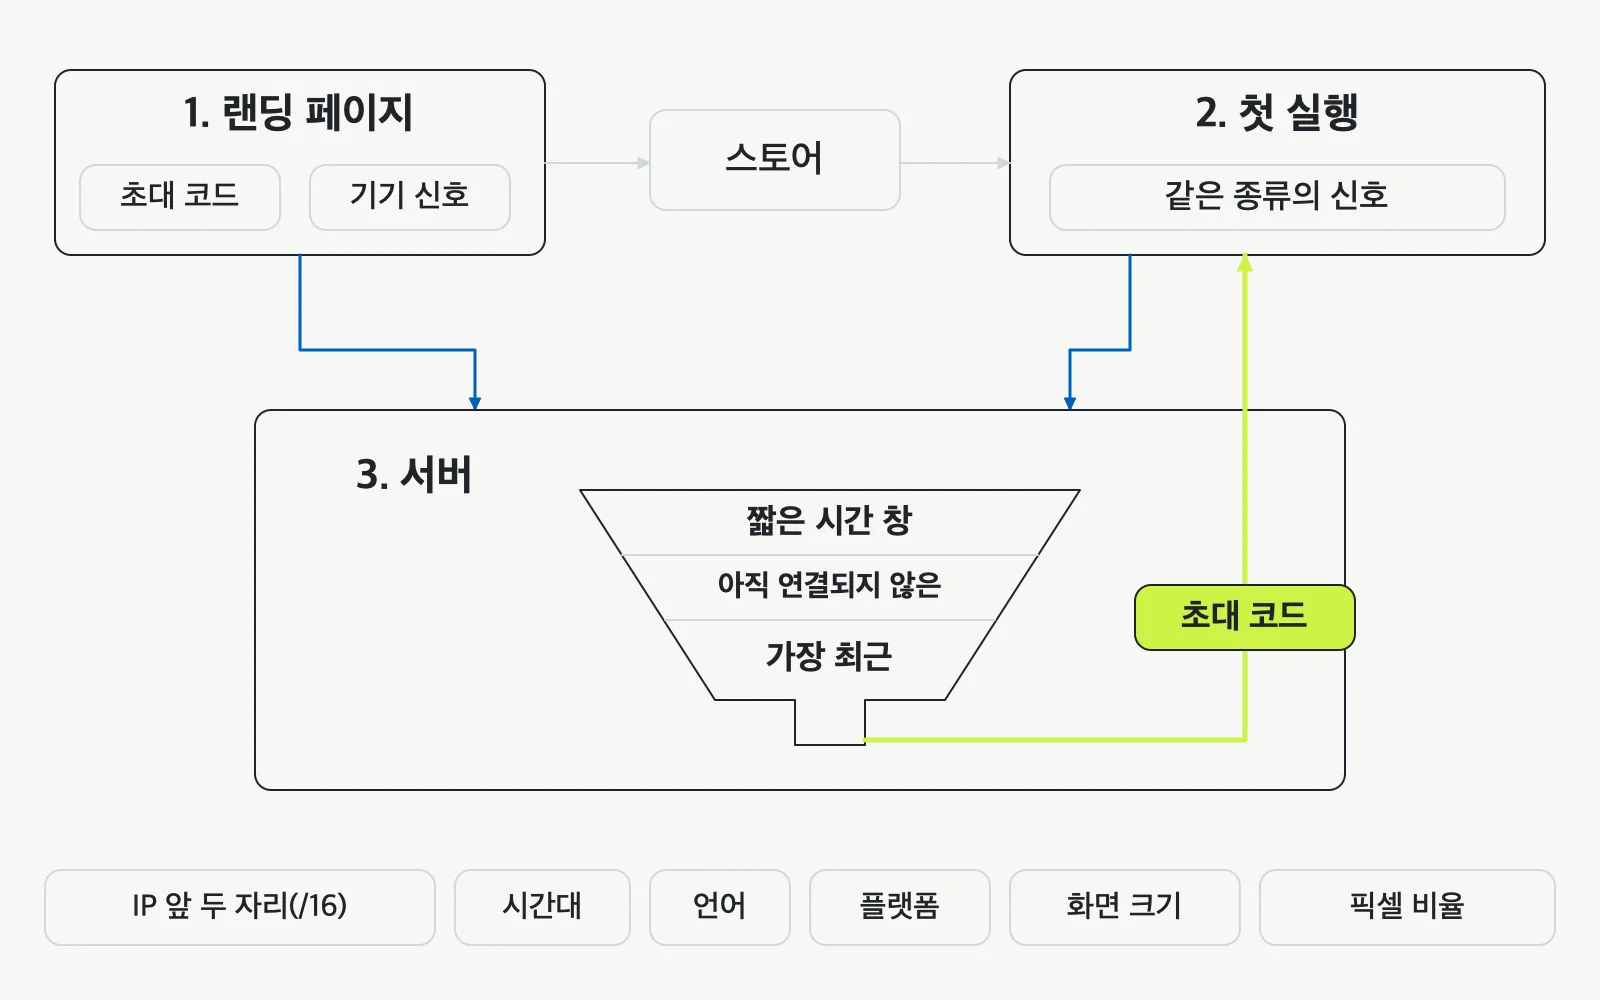
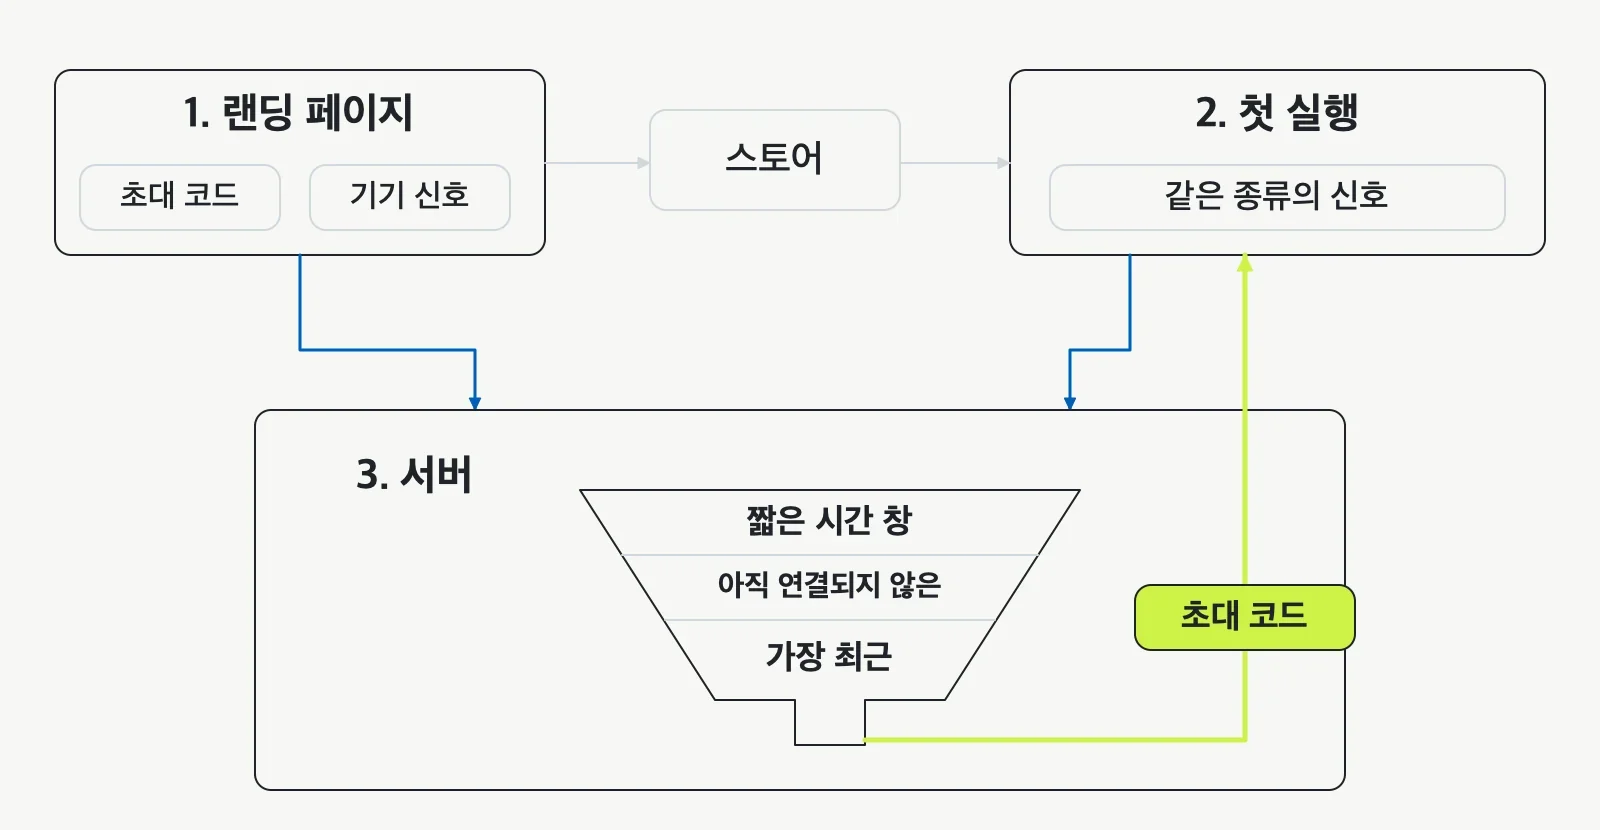
posts: 디퍼드 딥링크 글 — iOS 매칭 상세(신호 목록·코드·조건 그림) 축소, 결정 섹션을 앞으로, 요약 결과 구체화

diff --git a/src/post_items/deferred_deeplink_in_house.md b/src/post_items/deferred_deeplink_in_house.md
@@ -3,14 +3,14 @@ title: 'SDK 비용 대신 1픽셀과 싸웠다 — 초대 코드를 서버에서
 author: jack
 date: 2026. 10. 06.
 published: true
-description: 친구 초대 링크로 앱을 설치한 사람을 첫 실행 때 초대자와 연결하려고, Android 는 Play Install Referrer 로, iOS 는 기기 신호 매칭으로 디퍼드 딥링크를 직접 만든 판단 과정과 그 대가를 정리했어요.
+description: 친구 초대 링크로 앱을 설치한 사람을 첫 실행 때 초대자와 연결하려고, Android 는 Play Install Referrer 로, iOS 는 서버 매칭으로 디퍼드 딥링크를 직접 만든 판단 과정과 그 대가를 정리했어요.
 cover: /posts/deferred_deeplink_in_house/cover.webp
 category: server
 tags: [Django, iOS, Android]
 summary:
   problem: '초대 링크로 앱을 설치하면 스토어를 거치며 초대 코드가 사라졌어요.'
   role: '초대 코드를 잇는 서버 매칭과 앱 첫 실행 연동을 만들고, QR 보상에도 재사용했어요.'
-  result: 'Android 는 Play 값, iOS 는 서버 매칭으로 잇고 1픽셀 차이·무응답 플러그인(5초 타임아웃)을 풀었어요.'
+  result: '초대와 QR 보상이 매칭 함수 하나와 한 번만 지급하는 조건부 업데이트 한 줄을 함께 쓰게 만들었어요.'
   stack: 'Django, Flutter, Play Install Referrer API, AppsFlyer OneLink'
 ---
 
@@ -18,9 +18,9 @@ summary:
 
 올해 4월에 친구 초대 기능을 만들었어요. 친구가 초대 링크로 앱을 깔고 가입하면 두 사람 모두에게 보상을 줘요. 친구에게 이미 앱이 있다면 링크가 앱을 열고 초대 코드를 읽으면 끝이지만, 앱이 없으면 링크는 스토어로 가고 설치 뒤 첫 실행 때는 어디에도 남아 있지 않아요.
 
-설치를 거친 뒤에도 링크 정보를 이어 주는 것을 디퍼드 딥링크(deferred deep link)라고 해요. 보통은 Branch 나 AppsFlyer 같은 어트리뷰션 SDK 가 맡지만, 저희는 서버에서 직접 매칭했어요. Android 는 Google Play 의 Install Referrer API 로, iOS 는 랜딩 페이지와 앱 첫 실행의 기기 정보를 서버가 맞춰 봐서요. 어떤 기준으로 골랐고, 처음 조건이 왜 틀렸고, 무엇을 떠안았는지 적었어요.
+설치를 거친 뒤에도 링크 정보를 이어 주는 것을 디퍼드 딥링크(deferred deep link)라고 해요. 보통은 Branch 나 AppsFlyer 같은 어트리뷰션 SDK 가 맡지만, 저희는 서버에서 직접 매칭했어요. Android 는 Google Play 의 Install Referrer API 로, iOS 는 랜딩 페이지와 앱 첫 실행의 접속 환경을 서버가 맞춰 봐서요. 어떤 기준으로 골랐고, 처음 조건이 왜 틀렸고, 무엇을 떠안았는지 적었어요.
 
-> iOS 매칭에 쓰는 신호의 종류는 적었지만, 세부 기준값과 어뷰징 방지 규칙은 일부러 뺐어요. 공개하면 그대로 우회할 수 있어서요.
+> iOS 매칭의 구체적인 조건과 어뷰징 방지 규칙은 일부러 뺐어요. 공개하면 그대로 우회할 수 있어서요.
 
 ## 설치 한 번에 초대 코드가 사라진다
 
@@ -36,6 +36,23 @@ summary:
 ## 기준: 판정은 우리 DB 에서, 애매하면 주지 않는다
 
 이 정의에서 기준이 나왔어요. 첫째, 누가 누구를 초대했고 보상을 이미 줬는지는 우리 DB 의 한 테이블에서 판정해 한 번만 줘요. 둘째, 두 플랫폼에 같은 방법을 억지로 맞추지 않고 플랫폼마다 가장 확실한 신호를 써요. 셋째, 애매하면 주지 않아요. 초대를 놓치는 미매칭은 아쉽지만, 남의 초대로 잘못 붙이는 오매칭은 사고예요. 광고 성과나 유입 채널 분석은 앱에 이미 있던 어트리뷰션 SDK 의 몫이라 목표가 아니었어요.
+
+## 왜 SDK 에 맡기지 않았나: 비용, 그리고 판정을 한 곳에
+
+AppsFlyer SDK 는 3월에 설치·이벤트 집계용으로 이미 들어와 있었고 초대 기능은 4월에 나왔으니, 실제 질문은 이미 있는 SDK 에 보상 판정까지 맡길지였어요. SDK 는 플랫폼별 설치 경로 처리, 링크 관리 화면, 캠페인 집계까지 맡아 주고, 직접 만들면 이 중 아무것도 공짜로 오지 않아요. 그래도 **SDK 의 디퍼드 딥링크를 쓰지 않은 실제 이유는 비용이었어요.**
+
+구조로 봐도 서버 매칭은 첫째 기준에 맞아요. 보상 지급은 우리 DB 의 초대 행을 조건부 업데이트 한 줄로 선점해요.
+
+```python
+async def mark_inviter_rewarded_if_unrewarded(self, referral_id: int) -> bool:
+    affected_rows = await touch_update(
+        Referral.objects.filter(id=referral_id, inviter_rewarded_at__isnull=True),
+        inviter_rewarded_at=timezone.now(),
+    )
+    return affected_rows > 0   # 먼저 선점한 요청만 보상을 준다
+```
+
+매칭을 SDK 가 하면 서버는 앱이 SDK 에서 받아 다시 보낸 값을 믿고 행을 만들어야 해요. 서버가 하면 신호 저장부터 연결, 지급까지 한 테이블 안에서 끝나요.
 
 ## Android: Play 가 코드를 대신 들고 와 준다
 
@@ -56,65 +73,24 @@ Future<String?> _resolveReferrerFromPlayStore() async {
 
 Play 서비스가 없는 기기나 사이드로드 설치에서는 값이 없으니, 실패를 정상 경로로 보고 초대 없는 가입으로 처리해요.
 
-## iOS: 랜딩과 첫 실행의 기기 신호를 맞춘다
+## iOS: 설치 전과 후를 서버가 맞춰 본다
 
-App Store 는 설치를 일으킨 링크 정보를 앱에 넘겨주지 않아요. 그래서 랜딩 페이지가 초대 코드와 기기 신호를 서버에 저장한 뒤 스토어로 보내고, 앱이 첫 실행 때 같은 종류의 신호를 보내면, 서버가 짧은 시간 창 안에서 아직 연결되지 않은 랜딩 신호 중 조건이 모두 맞는 가장 최근 것을 찾아 초대 코드를 돌려줘요.
+App Store 는 설치를 일으킨 링크 정보를 앱에 넘겨주지 않아요. 그래서 랜딩 페이지가 초대 코드와 그 순간의 접속 환경을 서버에 남긴 뒤 스토어로 보내고, 앱이 첫 실행 때 같은 종류의 정보를 보내면, 서버가 짧은 시간 창 안에서 아직 연결되지 않은 기록 중 조건이 모두 맞는 가장 최근 것을 찾아 초대 코드를 돌려줘요.
 
 <figure>
-	<img src="/posts/deferred_deeplink_in_house/fig-2-ios-matching.webp" alt="랜딩 페이지가 초대 코드와 기기 신호를 서버에 저장하고, 앱이 첫 실행 때 같은 종류의 신호를 보내면 서버가 짧은 시간 창 안에서 아직 연결되지 않은 가장 최근 신호를 골라 초대 코드를 돌려준다" width="1600" height="1000" loading="lazy" />
+	<img src="/posts/deferred_deeplink_in_house/fig-2-ios-matching.webp" alt="랜딩 페이지가 초대 코드와 기기 신호를 서버에 저장하고, 앱이 첫 실행 때 같은 종류의 신호를 보내면 서버가 짧은 시간 창 안에서 아직 연결되지 않은 가장 최근 신호를 골라 초대 코드를 돌려준다" width="1600" height="830" loading="lazy" />
 	<figcaption>iOS 에서는 설치 전 랜딩과 설치 후 첫 실행의 기기 신호를 서버가 맞춰 봐요.</figcaption>
 </figure>
 
-신호는 IP 의 앞 두 자리(/16), 시간대, 언어, 기종(플랫폼), 화면 크기, 픽셀 비율이에요. 랜딩 페이지에서는 브라우저 값으로 모아요.
-
-```js
-const signals = {
-  referral_code: "{{ referral_code|escapejs }}",
-  language: navigator.language,                                // "ko-KR"
-  timezone: Intl.DateTimeFormat().resolvedOptions().timeZone,  // "Asia/Seoul"
-  screen: `${screen.width}x${screen.height}`,                  // "390x844"
-  pixel_ratio: String(window.devicePixelRatio || ""),          // "3"
-};
-```
-
-IP 는 서버가 요청에서 읽고, 앱은 언어·시간대·플랫폼을 이미 요청 헤더로 보내니 화면 크기와 픽셀 비율만 더 실어요. 서버 매칭은 점수제가 아니라 조건을 모두 만족하는 행만 남기는 필터예요.
-
-```python
-query = Q(ip__startswith=ip_prefix)                       # IP 앞 두 자리
-query &= Q(created_at__gte=now - MATCH_WINDOW)            # 짧은 시간 창
-query &= Q(timezone=timezone_value)
-query &= language_matches(normalize_language(language))   # 'ko' 와 'ko-KR' 은 같게
-if platform:     query &= Q(os__iexact=platform)
-if screen:       query &= Q(screen=screen)
-if pixel_ratio:  query &= Q(pixel_ratio=normalize_pixel_ratio(pixel_ratio))
-
-event = await Referral.objects.filter(query, invitee__isnull=True).order_by('-created_at').afirst()
-```
-
-값은 정규화해서 비교하고(`ko-KR` → `ko`, `3` → `3.000`), 없는 신호는 조건에서 빼고, 이미 다른 회원에게 연결된 신호는 다시 쓰지 않아요. 받은 코드는 가입 요청에 실려 오고, 서버는 새로 만들어진 회원일 때만 초대 관계를 연결해요.
+매칭은 점수제가 아니라 조건을 모두 만족하는 기록만 남기는 필터예요. 값은 정규화해서 비교하고(언어 `ko-KR` 과 `ko` 를 같게 보는 식으로), 이미 다른 회원에게 연결된 기록은 다시 쓰지 않아요. 받은 코드는 가입 요청에 실려 오고, 서버는 새로 만들어진 회원일 때만 초대 관계를 연결해요.
 
 ## 처음 매칭 조건은 너무 엄격했다
 
-처음에는 "다 똑같아야 같은 사람"이라고 생각했어요. 첫 버전의 조건은 이랬어요.
+처음에는 "다 똑같아야 같은 사람"이라고 생각했어요. 첫 버전은 랜딩과 첫 실행에서 모은 값이 전부 정확히 같아야 매칭했어요. 이 조건은 첫 PR 을 머지한 날 밤, 매칭이 잘 되지 않아 두 시간 남짓한 사이 커밋 네 개로 하나씩 풀렸어요. 모두 같은 기기인데 값이 다르게 찍히는 경우였어요.
 
-```python
-# 첫 버전: 모든 값이 정확히 같아야 매칭
-Referral.objects.filter(
-    ip=ip,                  # IP 전체
-    os_version=os_version,
-    language=language,
-    timezone=timezone_value,
-    screen=screen,
-    created_at__gte=now - MATCH_WINDOW,
-    invitee__isnull=True,
-)
-```
+OS 버전이 대표적이에요. 랜딩은 브라우저 User-Agent 에서 OS 버전을 꺼내는데, Apple 의 Safari 26.0 릴리스 노트에 따르면 iOS 26 의 Safari 는 UA 에 iOS 26 이전의 마지막 버전을 고정해서 적어요. 네트워크도 스토어를 다녀오는 사이 모바일 망에서 Wi-Fi 로 바뀌곤 해서, 정확히 같기를 기대할 수 없었어요.
 
-이 조건은 첫 PR 을 머지한 날 밤, 매칭이 잘 되지 않아 두 시간 남짓한 사이 커밋 네 개로 하나씩 풀렸어요. 언어를 요청 헤더(`Accept-Language`)에서 읽게 고치고, 화면 크기와 OS 버전을 매칭에서 빼고, IP 를 전체 일치에서 앞 두 자리(/16) 일치로 완화했어요. 모두 같은 기기인데 값이 다르게 찍히는 경우였어요.
-
-OS 버전은 랜딩 쪽 값을 믿을 수 없었어요. 랜딩은 브라우저 User-Agent 에서 OS 버전을 꺼내는데, Apple 의 Safari 26.0 릴리스 노트에 따르면 iOS 26·iPadOS 26 의 Safari 는 UA 에 iOS 26 이전의 마지막 버전을 고정해서 적어요. 그래서 지금도 OS 버전은 쓰지 않아요. IP 는 스토어 다운로드 사이에 모바일 주소가 바뀌거나 Wi-Fi 로 넘어갈 수 있어 앞 두 자리만 보기로 했는데, 같은 통신사 사용자가 앞자리를 나눠 쓰니 변별력이 크게 떨어져요. 그래서 6월에 화면 크기를 값이 있을 때만 쓰는 선택 조건으로 되살리고, "같은 공유기 공인 IP 충돌을 기기 모델 단위로 변별"하려고 픽셀 비율도 추가했어요.
-
-화면 크기가 왜 처음에 문제였는지는 나중에 QR 기능을 만들며 실제 데이터로 확인했어요. 어느 Android 기기의 랜딩 신호는 `339x735`, 픽셀 비율 `3.188` 이었는데, 같은 기기에서 Flutter 가 `(physicalSize / devicePixelRatio).toInt()` 로 계산한 값은 너비 338, 높이 734 였어요. **브라우저의 CSS 픽셀과 Flutter 의 논리 픽셀은 반올림이 달라서, 정확히 일치로 비교하면 1픽셀 차이로 매칭이 깨져요.** 정수 비율인 iPhone 보다 소수 비율의 Android 에서 그대로 드러나요. 그래서 QR 쪽 앱 요청에는 화면 크기를 보내지 않고 픽셀 비율만 보내기로 했어요.
+화면 크기가 왜 처음에 문제였는지는 나중에 QR 기능을 만들며 실제 데이터로 확인했어요. 어느 Android 기기에서 브라우저가 잰 화면 크기는 `339x735` 였는데, 같은 기기에서 Flutter 가 `(physicalSize / devicePixelRatio).toInt()` 로 계산한 값은 너비 338, 높이 734 였어요. **브라우저의 CSS 픽셀과 Flutter 의 논리 픽셀은 반올림이 달라서, 정확히 일치로 비교하면 1픽셀 차이로 매칭이 깨져요.** 정수 비율인 iPhone 보다 소수 비율의 Android 에서 그대로 드러나요. 그래서 이 값은 정확히 일치로 비교하는 조건에서 뺐어요.
 
 <figure>
 	<img src="/posts/deferred_deeplink_in_house/fig-3-pixel-gap.webp" alt="같은 Android 기기에서 브라우저는 화면 크기를 339x735 로, Flutter 는 338x734 로 계산해 정확히 일치 비교가 1픽셀 차이로 실패한다" width="1600" height="800" loading="lazy" />
@@ -123,39 +99,18 @@ OS 버전은 랜딩 쪽 값을 믿을 수 없었어요. 랜딩은 브라우저 U
 
 첫 가정은 반만 맞았어요. **같은 사람인지는 모든 값이 같은가가 아니라, 같은 기기에서 안정적으로 같게 찍히는 값이 같은가로 봐야 했어요.**
 
-<figure>
-	<img src="/posts/deferred_deeplink_in_house/fig-4-conditions.webp" alt="첫 버전은 IP 전체, OS 버전, 언어, 시간대, 화면 크기가 모두 같아야 했고, 지금은 IP 앞 두 자리, 언어, 시간대를 보고 OS 버전은 빼며 화면 크기, 플랫폼, 픽셀 비율은 값이 있을 때만 본다" width="1600" height="900" loading="lazy" />
-	<figcaption>매칭 조건은 같은 기기에서 안정적으로 같게 찍히는 값 위주로 바뀌었어요.</figcaption>
-</figure>
-
-## SDK 는 이미 앱에 있었다
-
-AppsFlyer SDK 는 3월에 설치·이벤트 집계용으로 이미 들어와 있었고 초대 기능은 4월에 나왔으니, 실제 질문은 이미 있는 SDK 에 보상 판정까지 맡길지였어요. SDK 는 플랫폼별 설치 경로 처리, 링크 관리 화면, 캠페인 집계까지 맡아 주고, 직접 만들면 이 중 아무것도 공짜로 오지 않아요. 그래도 **SDK 의 디퍼드 딥링크를 쓰지 않은 실제 이유는 비용이었어요.**
-
-구조로 봐도 서버 매칭은 첫째 기준에 맞아요. 보상 지급은 우리 DB 의 초대 행을 조건부 업데이트 한 줄로 선점해요.
-
-```python
-async def mark_inviter_rewarded_if_unrewarded(self, referral_id: int) -> bool:
-    affected_rows = await touch_update(
-        Referral.objects.filter(id=referral_id, inviter_rewarded_at__isnull=True),
-        inviter_rewarded_at=timezone.now(),
-    )
-    return affected_rows > 0   # 먼저 선점한 요청만 보상을 준다
-```
-
-매칭을 SDK 가 하면 서버는 앱이 SDK 에서 받아 다시 보낸 값을 믿고 행을 만들어야 해요. 서버가 하면 신호 저장부터 연결, 지급까지 한 테이블 안에서 끝나요. 다만 이 이점은 제가 지금 코드에서 거꾸로 읽어 낸 거예요. 당시 결정을 가른 건 비용이었고, 같은 조건으로 두 방식을 나란히 돌려 본 비교도 아니에요.
 
 ## 같은 구조를 QR 보상에 다시 쓰다
 
 6월에는 오프라인 행사용 QR 보상을 만들었어요. 앱이 없는 사람도 설치 후 보상을 받아야 해서 문제의 모양이 초대와 똑같았어요. 그래서 매칭 조건을 공용 함수 하나로 빼서 초대와 QR 이 함께 쓰고, 신호 테이블만 QR 전용으로 두었어요.
 
-재사용하면서 약점도 보였어요. QR 은 처음에 Android 에서도 신호 매칭만 써서, 8월에 Install Referrer 를 먼저 보게 고쳤어요. 또 행사장은 여러 사람이 비슷한 시각에 같은 네트워크로 QR 을 찍으니 IP 앞자리, 시간대, 언어가 전부 같아요. 남는 변별력은 기종과 화면뿐인데 QR 요청에서는 그마저 보내지 않고 있어서, 같은 8월 수정 때 픽셀 비율을 추가했어요.
+재사용하면서 약점도 보였어요. QR 은 처음에 Android 에서도 신호 매칭만 써서, 8월에 Install Referrer 를 먼저 보게 고쳤어요. 또 행사장은 여러 사람이 비슷한 시각에 같은 네트워크로 QR 을 찍으니 접속 환경이 서로 비슷해요. 그래서 같은 8월 수정 때 사람을 가를 값을 하나 더 보내게 고쳤어요.
 
 ## 직접 만들어서 떠안은 것들
 
 잘 돌아간다고만 쓰면 반쪽짜리 글이니, 직접 만든 대가도 적어 둘게요.
 
-먼저 오매칭과 미매칭의 줄다리기예요. 조건을 풀면 오매칭이, 조이면 미매칭이 늘어요. 6월에 후보 초대자가 둘 이상이면 연결하지 않는 규칙을 넣었다가 다음 날 되돌려, 지금은 가장 최근 신호를 골라요. 되돌린 이유는 기록에 없고, 앱에는 그때 만든 "애매함" 응답 처리가 남아 있어요. 또 iOS 매칭은 결국 추정이라, 나중에 외부 추천 프로그램을 붙일 때는 가입 중 추천 코드를 직접 입력하는 수동 경로를 만들고, SDK 가 링크 클릭으로 확정한 값이 있으면 그 값을 우선하기로 했어요.
+먼저 오매칭과 미매칭의 줄다리기예요. 조건을 풀면 오매칭이, 조이면 미매칭이 늘어요. 6월에 후보 초대자가 둘 이상이면 연결하지 않는 규칙을 넣었다가 다음 날 되돌려, 지금은 가장 최근 기록을 골라요. 또 iOS 매칭은 결국 추정이라, 나중에 외부 추천 프로그램을 붙일 때는 가입 중 추천 코드를 직접 입력하는 수동 경로를 만들고, SDK 가 링크 클릭으로 확정한 값이 있으면 그 값을 우선하기로 했어요.
 
 플러그인 버그도 제 몫이었어요. `play_install_referrer` 0.5.0 에는 연결 타임아웃이 없고, 재시도 실패나 값이 둘 다 비면 응답을 영원히 돌려주지 않는 분기가 있었어요. 첫 실행 스플래시가 이 값을 기다리다 보니 신규 설치 사용자가 스플래시에서 못 빠져나갔고, `try/catch` 로는 잡을 수 없어 타임아웃을 걸었어요.
 
@@ -174,7 +129,7 @@ await _profileUseCase.fetchAndStoreReferralCode().timeout(const Duration(seconds
 
 그래서 서버는 코드를 표준 키에 싣고, 앱은 기존 키를 먼저 보고 없으면 표준 키를 읽게 바꾼 뒤, 앱이 스토어에 다 퍼지고 나서 서버를 배포했어요. 매칭은 직접 소유해도 링크가 지나는 길은 다른 도구와 나눠 쓰고 있었던 거예요.
 
-마지막은 개인정보예요. 회원이 되기 전인 사람의 IP, 언어, 시간대, 화면 정보를 저장하니, 보관 기간 같은 정책은 개인정보보호법 같은 법 기준을 따라가요. SDK 를 써도 이 질문은 남지만, 직접 만들면 답할 사람이 저희뿐이에요.
+마지막은 개인정보예요. 회원이 되기 전인 사람의 접속 환경 정보를 저장하니, 보관 기간 같은 정책은 개인정보보호법 같은 법 기준을 따라가요. SDK 를 써도 이 질문은 남지만, 직접 만들면 답할 사람이 저희뿐이에요.
 
 ## 이 방식을 쓰지 않을 때
 
